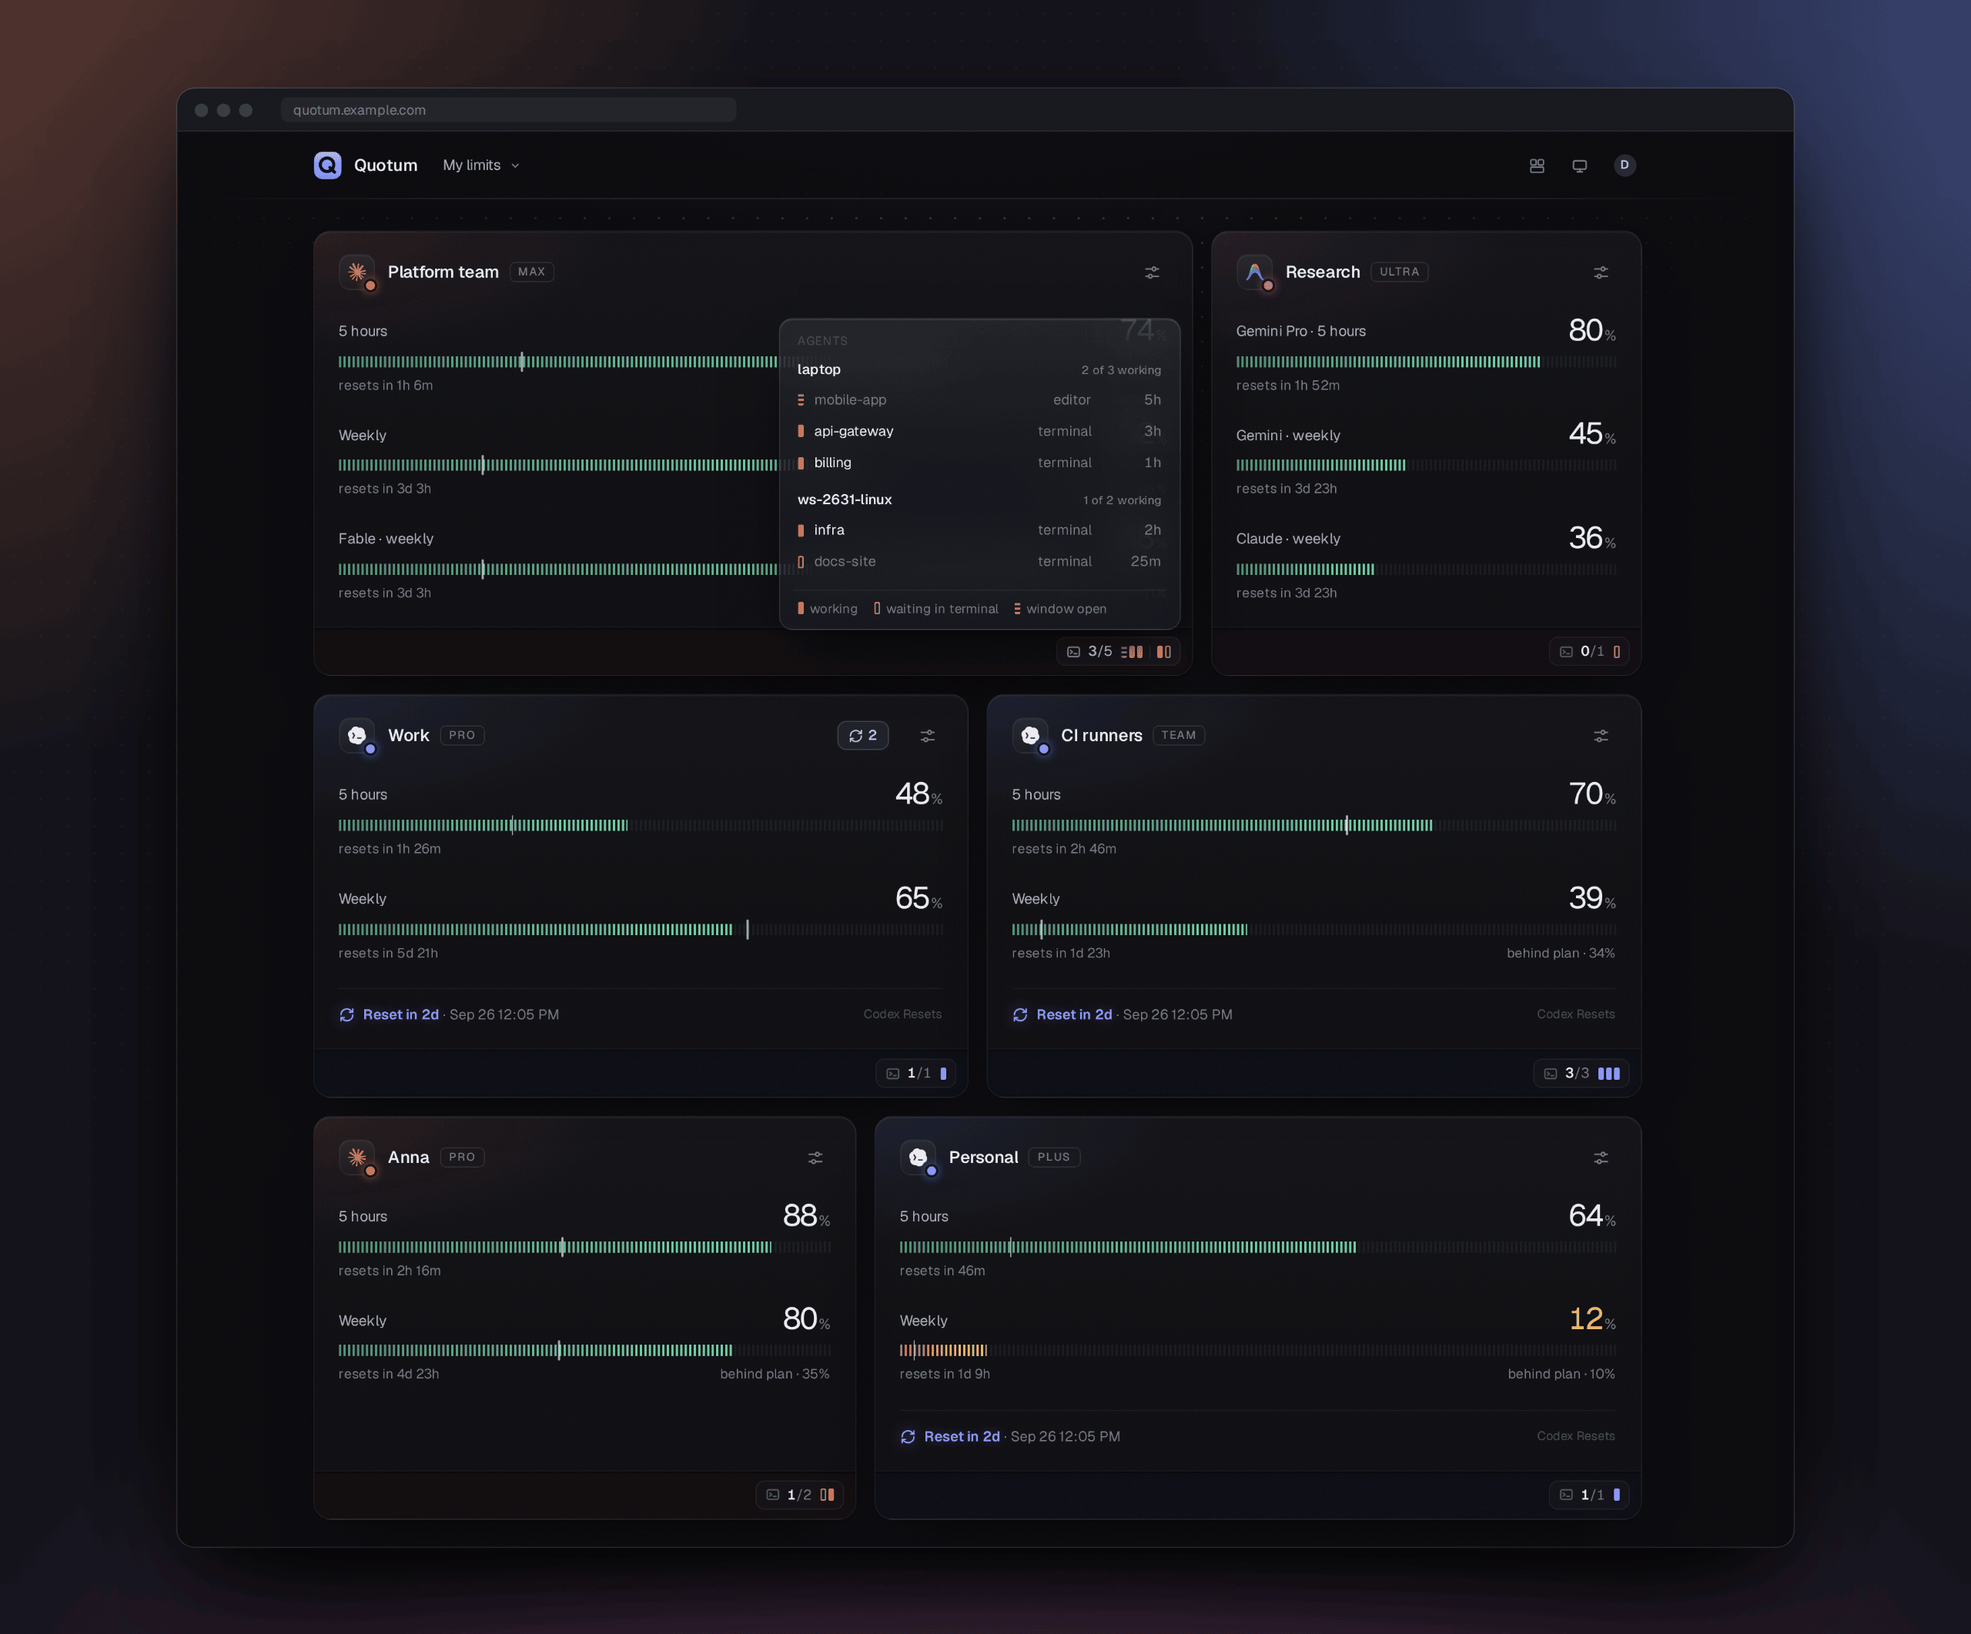
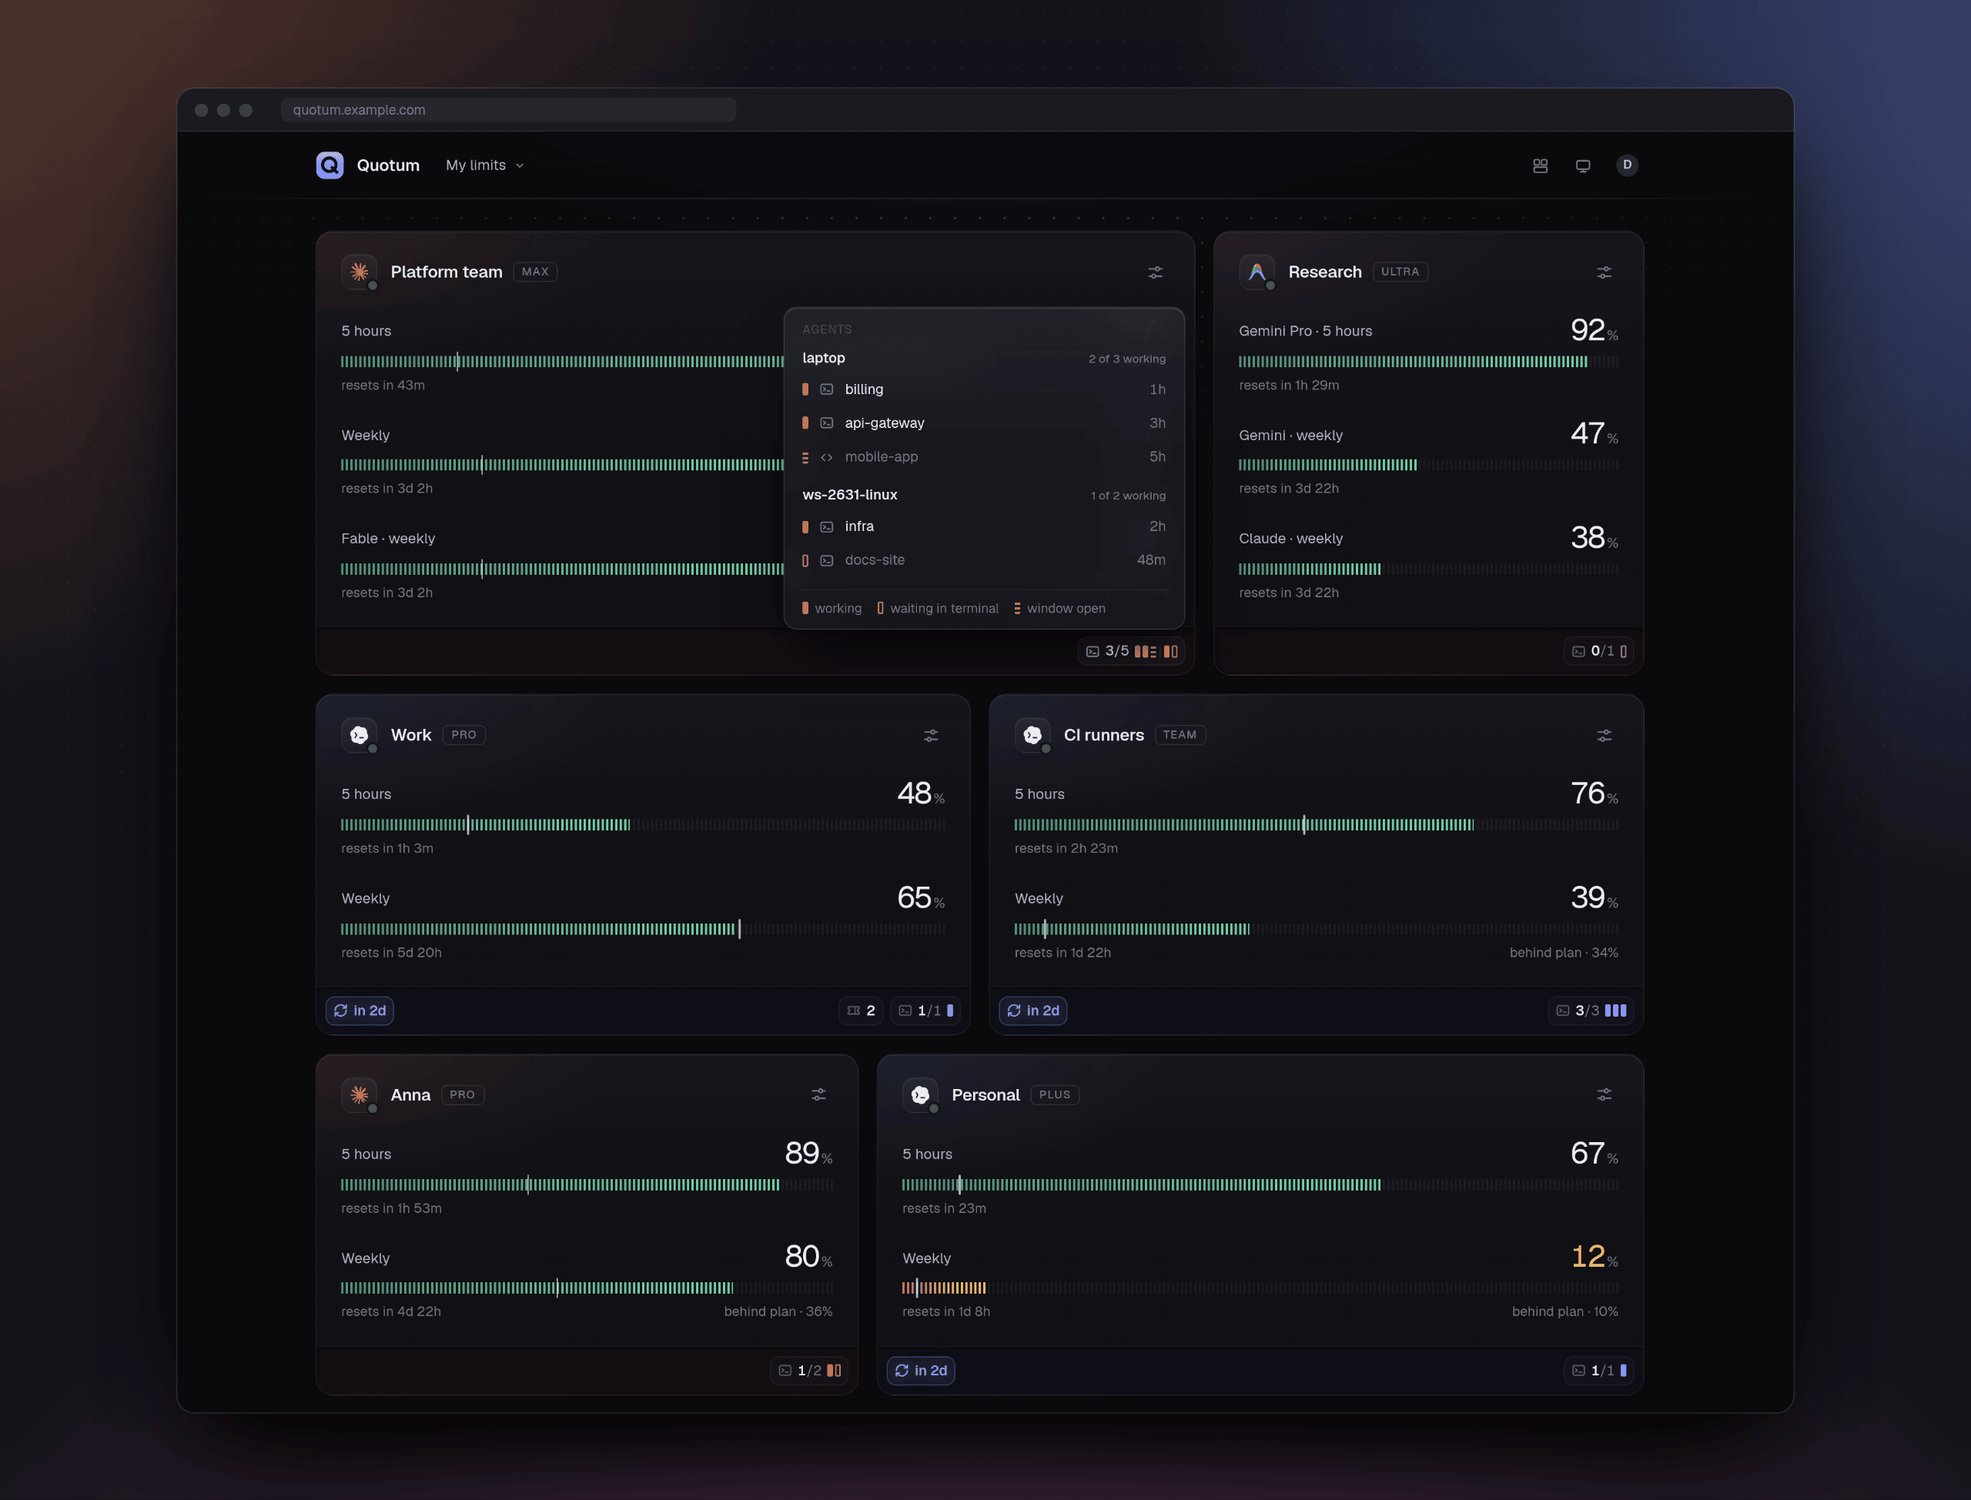
Prepare the 0.4.0 release

diff --git a/hub/server/test/schema.test.ts b/hub/server/test/schema.test.ts
@@ -16,6 +16,8 @@ import {Store} from '../store/store.js';
 const RELEASED = [
[4 lines of base64/hex data omitted]
 ];
 
 test('released layout steps never change; new ones come after them', () => {

diff --git a/README.md b/README.md
@@ -13,6 +13,9 @@ whole team. You host it yourself, and it never touches your provider tokens.
 
 ![The Quotum dashboard](docs/dashboard.png)
 
+For one machine, [download the desktop app](#desktop-app) for Windows or Linux: no hub
+or account to set up. For several machines or a team, run the hub and agent below.
+
 **Quick start**
 
 ```sh
@@ -140,6 +143,8 @@ Codex         api                  idle     started 25m ago · editor
 
 The interface is available in English and Russian.
 
+![Agent activity, remaining limits and spending forecasts](docs/analytics.png)
+
 ## What I paid attention to
 
 It's a pet project, but I wanted a tool I'd be comfortable running on every machine all
@@ -176,12 +181,12 @@ day, not a script thrown together over a weekend. In practice that meant:
   consumption. The agent says when its next measurement is due, so a sparse series isn't
   mistaken for a gap.
 - **Few moving parts.** The agent has nine direct dependencies. The hub is Fastify and
-  the SQLite built into Node, and the UI is plain React with about 100 KB of gzipped
+  the SQLite built into Node, and the UI is plain React with about 140 KB of gzipped
   JavaScript. There is no telemetry; the only requests the hub makes on its own are to
   the two reset trackers (or the mirror you name), every ten minutes, and
   `QUOTUM_RESETS=off` turns them off.
 - **Written down and tested.** The protocol between the agent and the hub is a spec
-  ([spec/ingest-v1.md](spec/ingest-v1.md)). About 180 tests cover the spending rules,
+  ([spec/ingest-v1.md](spec/ingest-v1.md)). Tests cover the spending rules,
   resets, duty, scheduling, permissions, sharing, device pairing, the clients' answers and the
   translations. The TypeScript is strict and the Rust passes `clippy`.
 
@@ -190,8 +195,9 @@ day, not a script thrown together over a weekend. In practice that meant:
 It works: I use it every day. The agent installs with one command, or runs through npm
 as `quotum`, with prebuilt binaries for Linux (x64 and arm64, any distribution), macOS
 and Windows; the hub is a Docker image (`ghcr.io/padurets/quotum-hub`, amd64 and arm64).
-A [desktop app](#desktop-app) for Windows and Linux is built and tested by CI but not
-released yet; autostart of the agent is next ([roadmap](#roadmap)).
+A [desktop app](#desktop-app) for Windows and Linux brings the agent, hub and board
+together on one machine. Automatic desktop updates and agent service registration
+are still ahead ([roadmap](#roadmap)).
 
 - Clients: Claude Code, Codex CLI, Antigravity CLI (`agy` 1.1.11 or newer).
 - Platforms: I run it on Linux. The macOS and Windows binaries are cross-compiled and
@@ -275,17 +281,40 @@ licences) and as a bare binary (`quotum-cli-<platform>`, what the installers and
 (`gh attestation verify <file> -R padurets/quotum`). **From source:**
 `cd agent && cargo build --release` (Rust 1.85 or newer) gives `target/release/quotum`.
 
+## Updating
+
+Before replacing the hub, stop it and back up its data directory (the Docker volume
+`quotum` in the examples). Start the new image with that same volume; it migrates the
+database automatically. A rollback needs the old image and the backup from before the
+upgrade: an older hub refuses a newer database layout.
+
+When upgrading from 0.3 to 0.4, subscription measurements, boards and settings remain.
+The old totals of agent work are replaced by per-session history: work time and
+forecasts based on it become available from the upgrade onward. The earlier limit
+history remains on the chart.
+
+On each machine, run `quotum update`, then restart the background agent with
+`quotum stop` and `quotum start` (or restart its service). With npm, use the latest
+`quotum` package. Update the hub first: older agents still deliver measurements to the
+new hub; the new agents follow its measuring schedule.
+
 ## Desktop app
 
 For one machine there is an app for Windows and Linux (macOS comes later): the agent of
 this machine, a hub of its own and its board in a window, with a tray icon. No account,
-no server. It has no release yet: the [Desktop workflow](.github/workflows/desktop.yml)
-builds every commit on `main` and in pull requests and keeps each installer as an
-artifact of the run (`quotum-desktop-<version>-<commit>-linux-x64.deb`, `.rpm`,
-`.AppImage`, `…-windows-x64-setup.exe` and `…-windows-x64-portable.zip`; downloading
-them takes a GitHub account). To build it yourself, see [CONTRIBUTING.md](CONTRIBUTING.md).
+no server. Download it from [Releases](https://github.com/padurets/quotum/releases/latest):
 
-- **Windows 10 and 11:** run `Quotum_<version>_x64-setup.exe`. It installs for you
+| System | Package |
+|---|---|
+| Windows x64 | `quotum-desktop-<version>-windows-x64-setup.exe` or `…-windows-x64-portable.zip` |
+| Linux x64 | `quotum-desktop-<version>-linux-x64.deb`, `.rpm` or `.AppImage` |
+
+The release includes `SHA256SUMS` and build provenance for these packages too.
+The [Desktop workflow](.github/workflows/desktop.yml) builds and smoke-tests the same
+packages on each pull request and on `main`; its development artifacts also carry the
+commit in their names. To build it yourself, see [CONTRIBUTING.md](CONTRIBUTING.md).
+
+- **Windows 10 and 11:** run `quotum-desktop-<version>-windows-x64-setup.exe`. It installs for you
   alone, into `%LOCALAPPDATA%\Quotum`, with no administrator rights, and brings WebView2
   if Windows lacks it. The installer isn't signed yet, so SmartScreen asks first: *More
   info → Run anyway*.
@@ -323,15 +352,18 @@ command and the app share them.
   without the window. Turn it off in the settings, and do that before uninstalling. The
   entry names the AppImage or Windows portable EXE by its path: keep it where it is
   (after a move, turn start at login off and on again).
-- **A newer build** installs over the old one: quit the app first. For the portable
+- **Updates are manual.** Download the newer release and quit the app before installing
+  it over the old one. For the portable
   version, replace the whole extracted folder; your data stays in your Windows profile.
 - **With `quotum`.** One agent measures a machine. If `quotum` already does, the app
   asks once whether to take over. A `quotum` of this version then waits and goes on by
   itself when the app quits, so `quotum run` as a service keeps working; an older one
   stops (update it). A hub that `quotum` delivered to gets nothing from this machine
   while the app runs.
-- **Its data**, the board's history and the logs, is in
+- **Its data**, including the board's history, is in
   `%LOCALAPPDATA%\com.padurets.quotum` or `~/.local/share/com.padurets.quotum`.
+  The logs are in `%LOCALAPPDATA%\com.padurets.quotum\logs` on Windows and
+  `~/.cache/com.padurets.quotum/logs` on Linux.
 - **What leaves the machine:** nothing but the reset announcements the board reads from
   Codex Resets and Claude Resets, as every hub does (`QUOTUM_RESETS=off` in the app's
   environment turns that off). Its hub listens on `127.0.0.1` alone, behind a key only
@@ -444,29 +476,49 @@ hub's image.
 
 ### Releasing
 
-Set the new version in `agent/Cargo.toml` (`[workspace.package]`), `desktop/Cargo.toml`
-and `hub/package.json`, let the lock files follow, push the commit, then tag it with the release notes as the
-tag's message. A release that brings a new database layout step also adds its hash to
-`RELEASED` in `hub/server/test/schema.test.ts` in that commit: from then on the step
-never changes.
+Prepare a release branch and a pull request into `main`. Set the new version in
+`agent/Cargo.toml` (`[workspace.package]`), `desktop/Cargo.toml` and `hub/package.json`,
+then update their lock files. The npm package template stays at `0.0.0`:
+`npm/build.mjs` sets the published packages' version from the agent's manifest.
+Add the hashes of any new database layout steps to `RELEASED` in
+`hub/server/test/schema.test.ts`; every step shipped by a release is frozen.
+Refresh the README screenshots in both languages from the demo board, check the upgrade
+instructions and prepare the release notes outside the repository.
+
+For example, to prepare 0.4.0 on that branch:
 
 ```sh
-(cd hub && npm version 0.2.0 --no-git-tag-version)   # package.json and package-lock.json
-# agent/Cargo.toml and desktop/Cargo.toml: version = "0.2.0"
-(cd agent && cargo check)                            # Cargo.lock
-(cd desktop && cargo metadata --format-version 1 >/dev/null)   # its Cargo.lock, with no build
-git commit -am "Version 0.2.0" && git push origin main
-git tag -a v0.2.0 -F notes.md --cleanup=verbatim   # annotated, its message kept whole: the release notes
-git push origin v0.2.0
+(cd hub && npm version 0.4.0 --no-git-tag-version)
+# agent/Cargo.toml and desktop/Cargo.toml: version = "0.4.0"
+(cd agent && cargo metadata --format-version 1 >/dev/null)
+(cd desktop && cargo metadata --format-version 1 >/dev/null)
+```
+
+Run the [full checks](CONTRIBUTING.md#checking-a-change), including the dashboard
+benchmark, and wait for CI and Desktop checks. The maintainer approves and squash-merges
+the pull request. Wait for the checks on the resulting `main` commit too: that is the
+commit to tag. Only after the maintainer approves that specific release:
+
+```sh
+git fetch origin
+git switch main
+git pull --ff-only origin main
+git tag -a v0.4.0 -F /path/to/release-notes.md --cleanup=verbatim
+git push origin v0.4.0
 ```
 
 [release.yml](.github/workflows/release.yml) refuses a tag that is not annotated or
-whose version differs from any of those six files. It checks everything again, builds
-the agent for every platform, publishes the hub's image and the npm packages, and
-creates the GitHub release with the binaries. npm accepts the packages from that workflow alone,
-without a token (trusted publishing). A new npm package, for a new platform, is
-published once by hand and then trusted with `node npm/trust.mjs`. npm trusts the
-repository by its name: after renaming it, run that again, and it replaces the old trusts.
+whose version differs from any of those six files. The tag's message becomes the
+release notes. The workflow checks the code again, builds the agent for every platform
+and runs the desktop packages through their installation and smoke checks. Only after
+all binaries are ready does it publish the hub's image and npm packages, then create
+the GitHub release with the CLI and desktop downloads, checksums and provenance.
+A tag publishes packages and images; an npm version cannot be reused.
+
+npm accepts the packages from that workflow alone, without a token (trusted publishing).
+A new npm package, for a new platform, is published once by hand and then trusted with
+`node npm/trust.mjs`. npm trusts the repository by its name: after renaming it, run that
+again, and it replaces the old trusts.
 
 ### Adding a language
 
@@ -480,7 +532,7 @@ language has is there.
 
 1. A team view on shared boards: people × providers at a glance.
 2. Autostart: a systemd user service, launchd, Windows.
-3. Releases of the desktop app with installers, then the app on macOS.
+3. Automatic updates of the desktop app, then the app on macOS.
 
 ## Credits and license
 

diff --git a/CONTRIBUTING.md b/CONTRIBUTING.md
@@ -6,9 +6,9 @@ fix, open an issue first so we can agree on the approach before you spend time o
 ## Checking a change
 
 ```sh
-cd hub && npm ci && npm run typecheck && npm test && npm run build
-cd agent && cargo fmt --check && cargo clippy --all-targets -- -D warnings && cargo test
-node desktop/prepare.mjs && cd desktop && cargo fmt --check && cargo clippy --all-targets -- -D warnings && cargo test
+(cd hub && npm ci && npm run typecheck && npm test && npm run build)
+(cd agent && cargo fmt --check && cargo clippy --all-targets --locked -- -D warnings && cargo test --locked)
+node desktop/prepare.mjs && (cd desktop && cargo fmt --check && cargo clippy --all-targets --locked -- -D warnings && cargo test --locked)
 ```
 
 CI runs the same on every push, the agent on Linux, macOS and Windows. `npm start` in
@@ -25,6 +25,8 @@ builds deb, rpm and AppImage; its packaging tools are `dpkg-deb`, `rpmbuild` and
 `mksquashfs`. On Windows, `npx @tauri-apps/cli@2.11.5 build --target x86_64-pc-windows-msvc`
 makes setup.exe; then `node desktop/package-windows.mjs` packages that build as a portable ZIP.
 CI runs both the installed app and the extracted ZIP, including a path with spaces.
+The release workflow calls the same Desktop workflow and publishes its packages only
+after these checks pass; ordinary CI runs also keep the versioned release packages.
 `desktop/smoke/windows-ui.ps1 <app.exe>` also checks ordinary startup with the real
 window-state plugin: a visible, responsive window, restored bounds inside the monitor's
 work area, close/reopen through a second launch, and a second launch while the window is
@@ -86,6 +88,17 @@ A new state of the board gets an entry in the catalogue, with the codes it shows
 `expect` (the file's header explains them): `npm test` then checks it holds, and it is
 on the board for the next person. `npm run demo -- --still` keeps the board still:
 nothing is measured after the start, and no card goes stale for three hours.
+
+For README screenshots, use `npm run demo -- showcase --still`. Capture the cards and
+the analytics separately in English and Russian, with the same viewport and preferences.
+Keep a weekly window with its plan, forecast and a forecast label at the chart’s right
+edge in view. Update `docs/dashboard.png`, `docs/dashboard.ru.png`, `docs/analytics.png`
+and `docs/analytics.ru.png`, and refresh `docs/social-preview.png` with the current board.
+Keep the existing presentation: the README images sit in a browser-window frame on
+the coloured backdrop, with one card’s agents panel open; the social preview uses
+the tilted board beneath its title. Preserve the typography, proportions and backdrop
+when replacing the underlying screenshots, and compress the PNGs with pngquant.
+Use only the demo’s synthetic accounts and machines.
 
 `npm run bench` (after `npm run build`) runs such a still demo, opens Ana's board in
 headless Chrome and holds it to the budget in `hub/bench/budget.ts`: for two minutes

diff --git a/docs/architecture.md b/docs/architecture.md
@@ -710,6 +710,16 @@ command's response before issuing the next; quitting and reentry do not wait in 
 A change made in the file by hand is
 picked up within seconds.
 
+## Releases
+
+An annotated version tag runs `.github/workflows/release.yml` from that commit. It
+checks the shared version, runs CI, builds the CLI, and calls `desktop.yml` for the
+Linux and Windows packages and their installation and smoke checks. The complete set
+of binaries is assembled with one `SHA256SUMS` before the hub image or npm packages
+are published. CLI and desktop downloads have build provenance; the tag's message is
+the GitHub release's description. The desktop app is updated by downloading and
+installing a newer package; it has no automatic updater yet.
+
 ## Roadmap
 
 1. ~~Ingest format, the agent (three providers, schedule, spool), hub ingest.~~
@@ -725,5 +735,5 @@ picked up within seconds.
    latest version is read from where `releases/latest` redirects, one request with no
    API behind it.~~ Next: autostart registration.
 7. ~~The desktop app for Windows and Linux: the agent, its own hub and board,
-   tray and settings, built and tested by CI.~~ Next: its releases and installers, then
+   tray and settings, built and tested by CI.~~ Next: automatic updates, then
    macOS.
